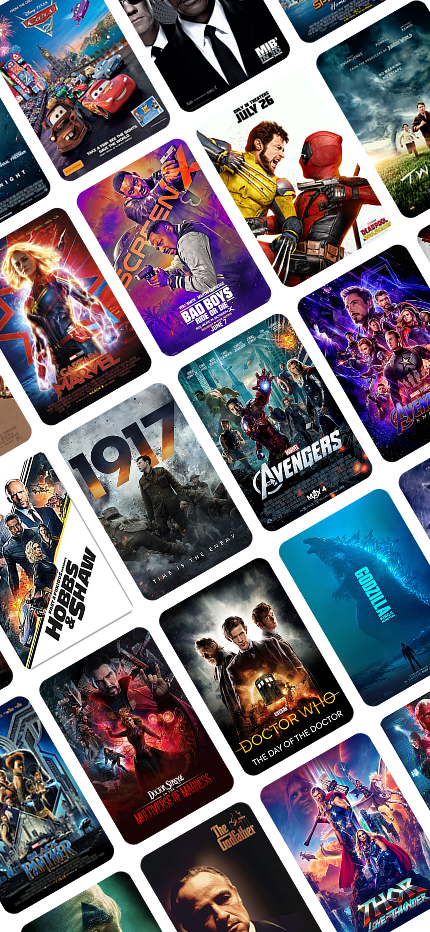
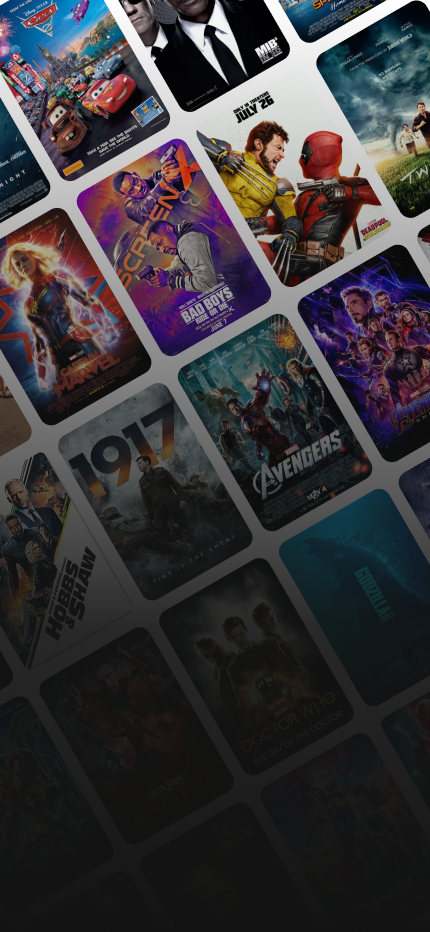
ui edit

diff --git a/lib/features/onBoarding/widgets/onboarding_page.dart b/lib/features/onBoarding/widgets/onboarding_page.dart
@@ -1,92 +1,119 @@
 import 'package:flutter/material.dart';
 import 'package:flutter_screenutil/flutter_screenutil.dart';
 import 'package:movies_app/core/resources/colors_manager.dart';
-import 'package:movies_app/features/onBoarding/presentation/Models/onboarding_model.dart';
-import 'package:movies_app/features/onBoarding/widgets/pop_button.dart';
-import 'package:movies_app/features/onBoarding/widgets/push_button.dart';
+import 'package:movies_app/core/widgets/app_button.dart';
+import 'package:movies_app/features/onboarding/presentation/Models/onboarding_model.dart';
 
 class OnboardingPage extends StatelessWidget {
- OnboardingPage({super.key, required this.onboardingModel, required this.onNext, required this.onBack , required this.title});
+  OnboardingPage({
+    super.key,
+    required this.onboardingModel,
+    required this.onNext,
+    required this.onBack,
+    required this.title,
+    required this.showBack,
+  });
 
   final OnboardingModel onboardingModel;
   final Function() onNext;
   final Function() onBack;
-   final String title;
+  final String title;
+  final bool showBack;
 
   @override
   Widget build(BuildContext context) {
-
     return Stack(
-        fit: StackFit.expand,
-        children: [
-          Image.asset(
-            onboardingModel.image,
-            fit: BoxFit.fill,
+      fit: StackFit.expand,
+      children: [
+        Image.asset(
+          onboardingModel.image,
+        fit: BoxFit.cover,
+      
+alignment: Alignment.topCenter,
+        ),
+
+        Container(
+          decoration: BoxDecoration(
+            gradient: LinearGradient(
+              begin: Alignment.topCenter,
+              end: Alignment.bottomCenter,
+              colors: [
+                onboardingModel.color.withOpacity(0.0),
+                onboardingModel.color.withOpacity(0.5),
+                onboardingModel.color.withOpacity(0.91),
+                onboardingModel.color.withOpacity(1.0),
+              ],
+              stops: const [0.0, 0.5, 0.91, 1.0],
+            ),
           ),
+        ),
+        
 
-          Container(
-
-            decoration: BoxDecoration(
-              gradient: LinearGradient(
-                begin: Alignment.topCenter,
-                end: Alignment.bottomCenter,
-                colors: [
-                  onboardingModel.color.withOpacity(0.0),
-                  onboardingModel.color.withOpacity(0.5),
-                  onboardingModel.color.withOpacity(0.91),
-                  onboardingModel.color.withOpacity(1.0),
-
-                ],
-                stops: const [0.0, 0.5, 0.91, 1.0],
+        Align(
+          alignment: Alignment.bottomCenter,
+          child: Container(
+            width: double.infinity,
+            padding: REdgeInsets.all(16),
+            decoration: const BoxDecoration(
+              color: ColorsManager.black,
+              borderRadius: BorderRadius.only(
+                topLeft: Radius.circular(40),
+                topRight: Radius.circular(40),
               ),
             ),
+            child:Column(
+  mainAxisSize: MainAxisSize.min,
+  children: [
+    SizedBox(height: 18.h),
 
+    Text(
+      onboardingModel.title,
+      textAlign: TextAlign.center,
+      style: Theme.of(context).textTheme.labelMedium,
+    ),
+
+    if (onboardingModel.subTitle != null &&
+        onboardingModel.subTitle!.isNotEmpty) ...[
+      SizedBox(height: 24.h),
+
+      Text(
+        onboardingModel.subTitle!,
+        textAlign: TextAlign.center,
+        style: Theme.of(context).textTheme.labelSmall,
+      ),
+    ],
+
+    SizedBox(height: 24.h),
+
+    AppButton(
+      text: title,
+      onPressed: onNext,
+      textStyle: Theme.of(context).textTheme.displayMedium,
+    ),
+
+    if (showBack) ...[
+      SizedBox(height: 16.h),
+  AppButton(
+  text: 'Back',
+  onPressed: onBack,
+
+  backgroundColor: Colors.transparent,
+
+  borderSide: const BorderSide(
+    color: ColorsManager.yellow,
+    width: 2,
+  ),
+
+  textColor: ColorsManager.yellow,
+
+  textStyle: Theme.of(context).textTheme.displayLarge,
+),
+    ],
+  ],
+),
           ),
-          Column(
-            mainAxisSize: MainAxisSize.min,
-            mainAxisAlignment: MainAxisAlignment.end,
-            children: [
-              Container(
-                padding: REdgeInsets.all(16),
-                decoration: BoxDecoration(
-                    color: ColorsManager.black,
-                    borderRadius: BorderRadius.only(
-                      topLeft: Radius.circular(40),
-                      topRight: Radius.circular(40),
-                    )
-                ),
-                child: Column(
-                  mainAxisAlignment: MainAxisAlignment.end,
-                    children: [
-                      Text(
-                        textAlign: TextAlign.center,
-                        onboardingModel.title,
-                        style: Theme
-                            .of(context)
-                            .textTheme
-                            .labelMedium,
-                      ),
-SizedBox(height: 24.h,),
-                      Text(
-                        textAlign: TextAlign.center,
-                        onboardingModel.subTitle!,
-                        style: Theme
-                            .of(context)
-                            .textTheme
-                            .labelSmall,
-                      ),
-
-                      SizedBox(height: 24.h,),
-PushButton(title:title, onNext: onNext),
-                      SizedBox(height: 16.h,),
-PopButton(onBack: onBack),
-                    ]
-                ),
-              ),
-            ],
-          ),
-
-
-        ]);
+        ),
+      ],
+    );
   }
 }

diff --git a/lib/features/onBoarding/presentation/screens/onboarding_screen.dart b/lib/features/onBoarding/presentation/screens/onboarding_screen.dart
@@ -1,5 +1,5 @@
 import 'package:flutter/material.dart';
-import 'package:movies_app/features/onBoarding/presentation/Models/onboarding_model.dart';
+import 'package:movies_app/features/onboarding/presentation/Models/onboarding_model.dart';
 import 'package:shared_preferences/shared_preferences.dart';
 import '../../widgets/first_onboarding.dart';
 import '../../widgets/onboarding_page.dart';
@@ -48,34 +48,33 @@ class _OnboardingScreenState extends State<OnboardingScreen> {
   @override
   Widget build(BuildContext context) {
     bool isLastPage = _currentIndex == pages.length - 1;
-    return SafeArea(
-      child: Scaffold(
-        backgroundColor: Colors.black,
-        body: PageView.builder(
-          controller: _pageController,
-          physics: const NeverScrollableScrollPhysics(),
-          itemCount: pages.length,
-          onPageChanged: (index) {
-            setState(() {
-              _currentIndex = index;
-            });
-          },
-          itemBuilder: (context, index) {
-            if (index == 0) {
-              return FirstOnboarding(
-                onboardingModel: pages[index],
-                onNext: _next,
-              );
-            } else {
-              return OnboardingPage(
-title: isLastPage ? 'Finish' : 'Next',
-                onboardingModel: pages[index],
-                onNext: _next,
-                onBack: _back,
-              );
-            }
-          },
-        ),
+    return Scaffold(
+      backgroundColor: Colors.black,
+      body: PageView.builder(
+        controller: _pageController,
+        physics: const NeverScrollableScrollPhysics(),
+        itemCount: pages.length,
+        onPageChanged: (index) {
+          setState(() {
+            _currentIndex = index;
+          });
+        },
+        itemBuilder: (context, index) {
+          if (index == 0) {
+            return FirstOnboarding(
+              onboardingModel: pages[index],
+              onNext: _next,
+            );
+          } else {
+            return OnboardingPage(
+              onboardingModel: pages[index],
+              onNext: _next,
+              onBack: _back,
+              title: isLastPage ? 'Finish' : 'Next',
+              showBack: index != 1,
+            );
+          }
+        },
       ),
     );
   }

diff --git a/lib/features/onBoarding/widgets/first_onboarding.dart b/lib/features/onBoarding/widgets/first_onboarding.dart
@@ -1,7 +1,7 @@
 import 'package:flutter/material.dart';
 import 'package:flutter_screenutil/flutter_screenutil.dart';
-import 'package:movies_app/features/onBoarding/presentation/Models/onboarding_model.dart';
-import 'package:movies_app/features/onBoarding/widgets/push_button.dart';
+import 'package:movies_app/core/widgets/app_button.dart';
+import 'package:movies_app/features/onboarding/presentation/Models/onboarding_model.dart';
 
 
 class FirstOnboarding extends StatelessWidget {
@@ -19,26 +19,9 @@ class FirstOnboarding extends StatelessWidget {
         children: [
         Image.asset(
        onboardingModel.image,
-        fit: BoxFit.fill,
+        fit: BoxFit.cover,
       ),
-          Container(
-
-            decoration: BoxDecoration(
-              gradient: LinearGradient(
-                begin: Alignment.topCenter,
-                end: Alignment.bottomCenter,
-                colors: [
-                  onboardingModel.color.withOpacity(0.0),
-                  onboardingModel.color.withOpacity(0.5),
-                  onboardingModel.color.withOpacity(0.91),
-                  onboardingModel.color.withOpacity(1.0),
-
-                ],
-                stops: const [0.0, 0.5, 0.91, 1.0],
-              ),
-            ),
-
-          ),
+        
         Padding(
           padding: REdgeInsets.symmetric(horizontal: 16.w,vertical: 33.h),
           child: Column(
@@ -46,7 +29,7 @@ class FirstOnboarding extends StatelessWidget {
             children: [
               Text(
                 textAlign: TextAlign.center,
-                onboardingModel.title,
+                onboardingModel.title ,
                 style: Theme.of(context).textTheme.labelLarge,
               ),
               SizedBox(height: 16.h,),
@@ -57,8 +40,8 @@ class FirstOnboarding extends StatelessWidget {
               ),
 
 
-              SizedBox(height: 9.h,),
-             PushButton(title: 'Explore Now', onNext: onNext),
+              SizedBox(height: 24.h,),
+             AppButton(text: 'Explore Now', onPressed: onNext , textStyle: Theme.of(context).textTheme.displayMedium,),
             ]
           ),
         ),

diff --git a/lib/core/widgets/app_button.dart b/lib/core/widgets/app_button.dart
@@ -10,6 +10,8 @@ class AppButton extends StatelessWidget {
   final Widget? icon;
   final Color? backgroundColor;
   final Color? textColor;
+  final TextStyle? textStyle;
+  final BorderSide? borderSide;
 
   const AppButton({
     super.key,
@@ -20,6 +22,8 @@ class AppButton extends StatelessWidget {
     this.icon,
     this.backgroundColor,
     this.textColor,
+    this.textStyle,
+    this.borderSide,
   });
 
   @override
@@ -30,22 +34,36 @@ class AppButton extends StatelessWidget {
       child: ElevatedButton(
         onPressed: isLoading ? null : onPressed,
         style: ElevatedButton.styleFrom(
+          elevation: 0,
           backgroundColor: backgroundColor ?? ColorsManager.yellow,
           foregroundColor: textColor ?? ColorsManager.black,
+
+          side: borderSide,
+
           shape: RoundedRectangleBorder(
-            borderRadius: BorderRadius.circular(15),
+            borderRadius: BorderRadius.circular(15.r),
           ),
         ),
         child: isLoading
             ? const CircularProgressIndicator()
             : icon == null
-                ? Text(text, style: Theme.of(context).textTheme.headlineLarge)
+                ? Text(
+                    text,
+                    style:
+                        textStyle ??
+                        Theme.of(context).textTheme.headlineLarge,
+                  )
                 : Row(
                     mainAxisAlignment: MainAxisAlignment.center,
                     children: [
                       icon!,
                       SizedBox(width: 10.w),
-                      Text(text, style: Theme.of(context).textTheme.displaySmall),
+                      Text(
+                        text,
+                        style:
+                            textStyle ??
+                            Theme.of(context).textTheme.displaySmall,
+                      ),
                     ],
                   ),
       ),

diff --git a/lib/core/resources/assets_manager.dart b/lib/core/resources/assets_manager.dart
@@ -64,4 +64,7 @@ class AssetsManager {
   static const String onboarding4 = "assets/images/onboarding4.jpg";
   static const String onboarding5 = "assets/images/onboarding5.jpg";
   static const String onboarding6 = "assets/images/onboarding6.jpg";
+
+
+
 }

diff --git a/lib/main.dart b/lib/main.dart
@@ -41,7 +41,7 @@ class MyApp extends StatelessWidget {
       
         theme: ThemeManager.darkTheme,
         onGenerateRoute: RouteGenerator.getRoute,
-    
+  
               initialRoute: seenOnboarding
             ? RoutesManager.login
 
